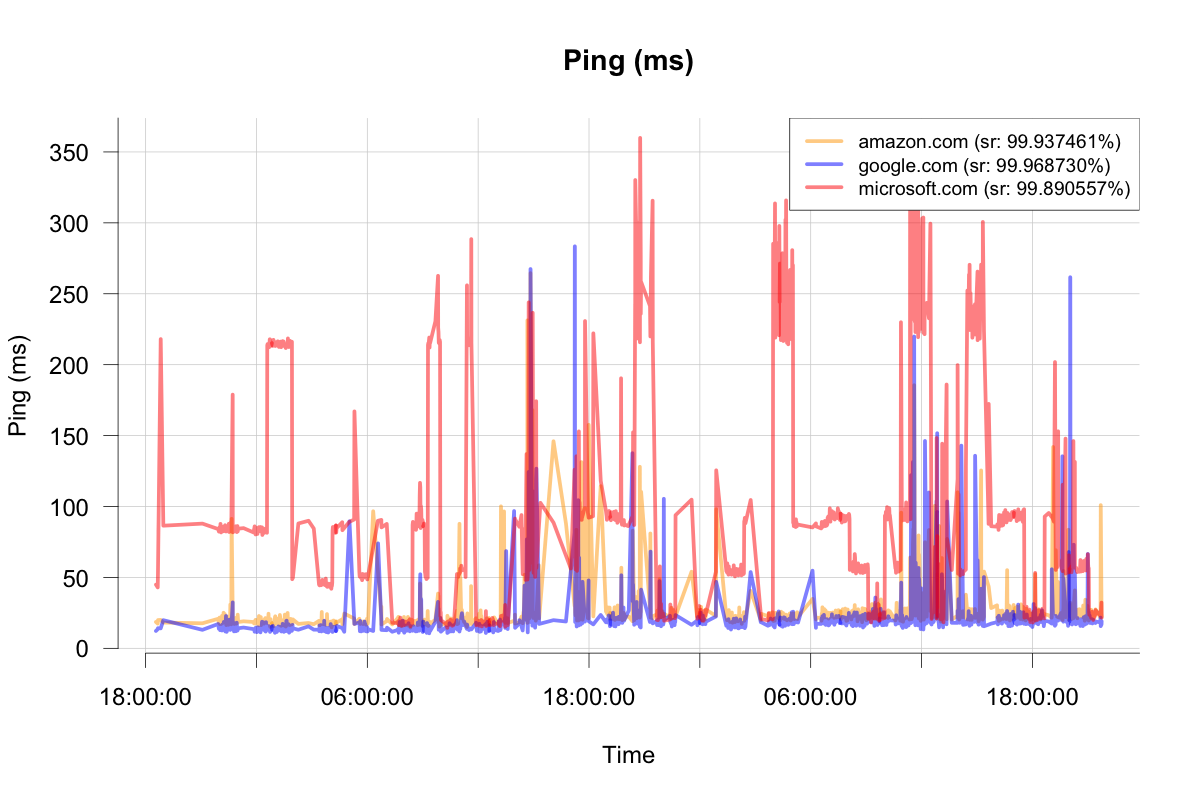
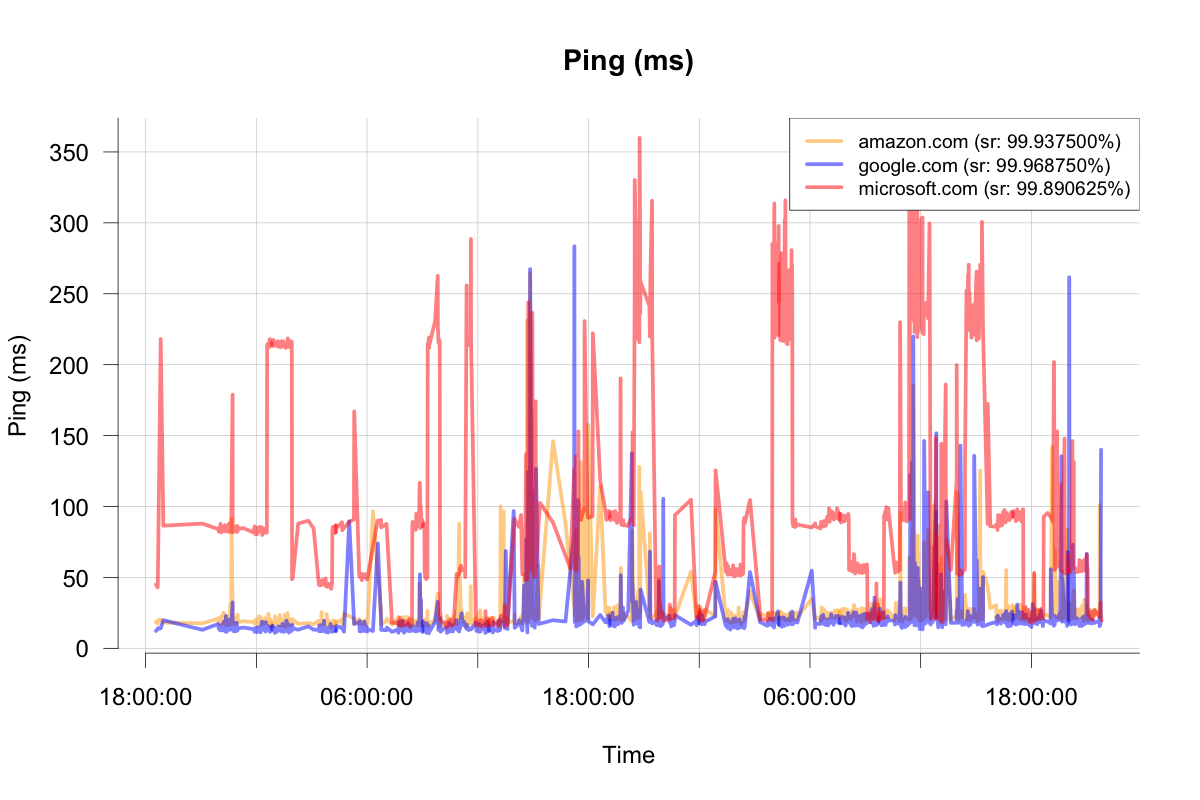
update netmon

diff --git a/netmon/index.html b/netmon/index.html
@@ -1,10 +1,7 @@
-Network Monitor - last updated Sun Oct 20 21:45:11 EDT 2024
+Network Monitor - last updated Sun Oct 20 21:48:36 EDT 2024
 ![Ping](netmon.png)
 ```
 time                 site           snd  rec  min_ms  avg_ms   max_ms   sd
-2024-10-20 21:04:00  google.com     4    4    16.796  19.722   20.805   1.691
-2024-10-20 21:04:04  amazon.com     4    4    20.372  23.663   26.174   2.492
-2024-10-20 21:04:07  microsoft.com  4    4    19.189  25.786   40.011   8.361
 2024-10-20 21:05:00  google.com     4    4    17.394  19.904   23.816   2.476
 2024-10-20 21:05:03  amazon.com     4    4    21.980  26.469   29.562   2.814
 2024-10-20 21:05:06  microsoft.com  4    4    22.508  23.600   25.186   1.068
@@ -62,6 +59,9 @@ time                 site           snd  rec  min_ms  avg_ms   max_ms   sd
 2024-10-20 21:45:01  google.com     4    4    13.008  19.126   26.591   4.851
 2024-10-20 21:45:04  amazon.com     4    4    17.006  22.347   28.030   4.023
 2024-10-20 21:45:07  microsoft.com  4    4    18.193  21.593   26.406   2.990
+2024-10-20 21:46:33  google.com     4    4    13.994  140.044  507.889  212.386
+2024-10-20 21:48:30  amazon.com     4    4    18.710  22.394   24.434   2.216
+2024-10-20 21:48:33  microsoft.com  4    4    17.174  19.605   23.724   2.570
 ```
 
 <!-- This will refresh the page every 60 seconds -->
